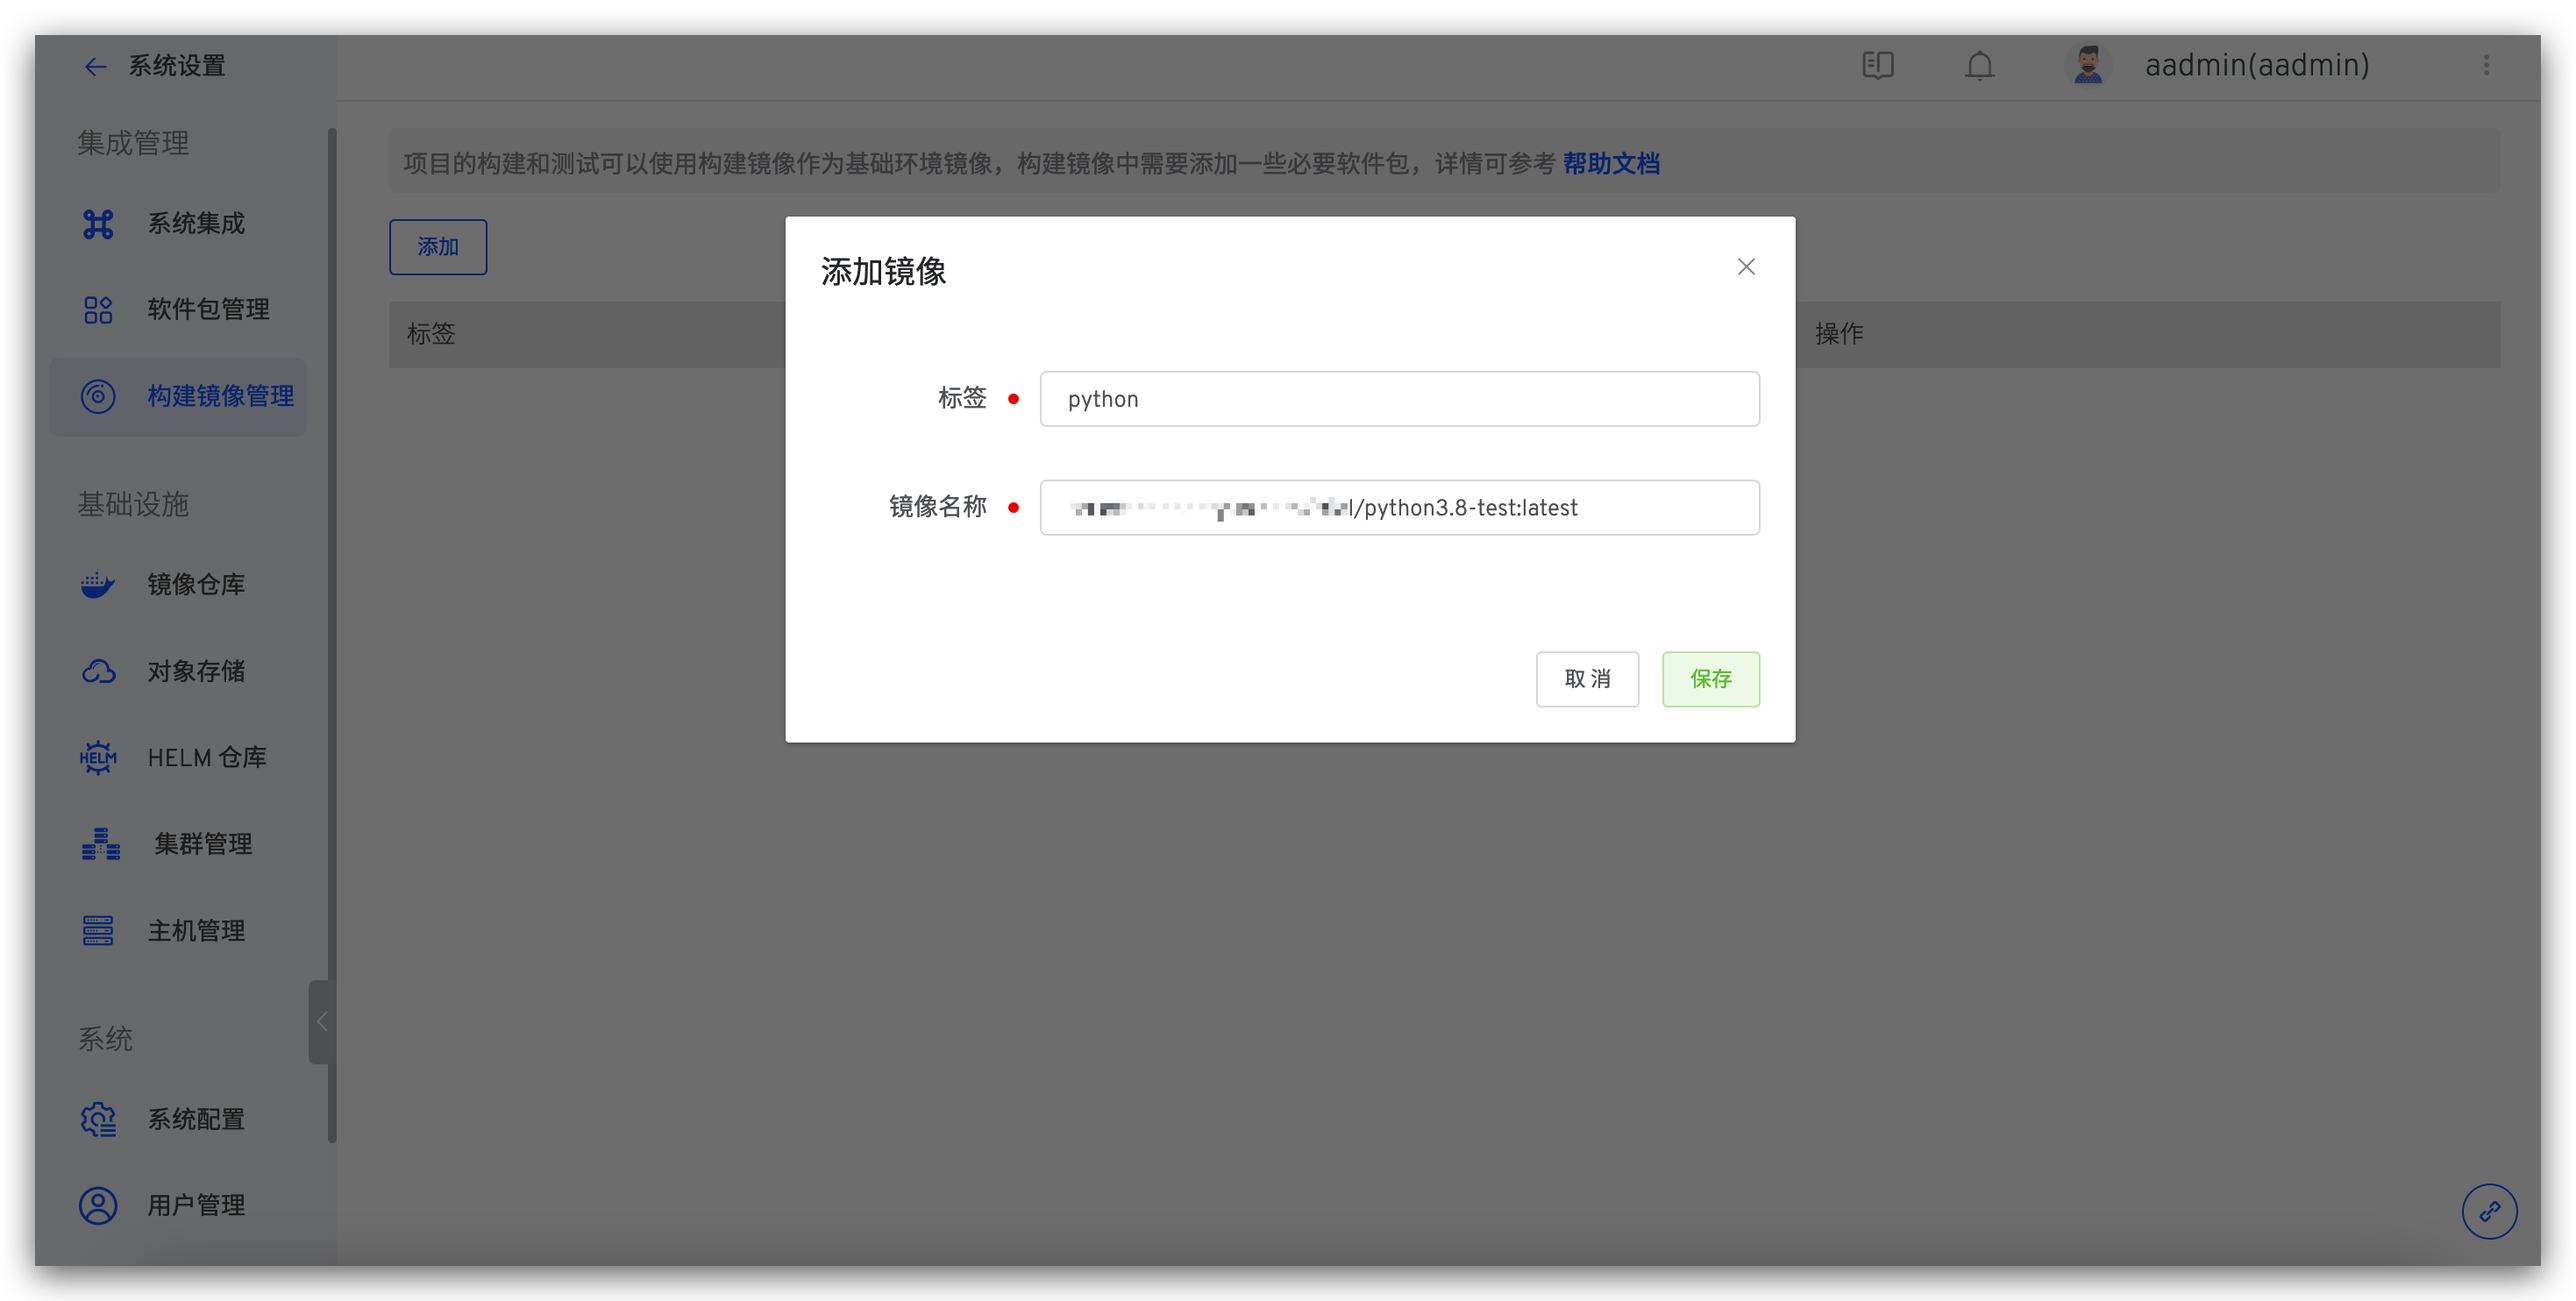
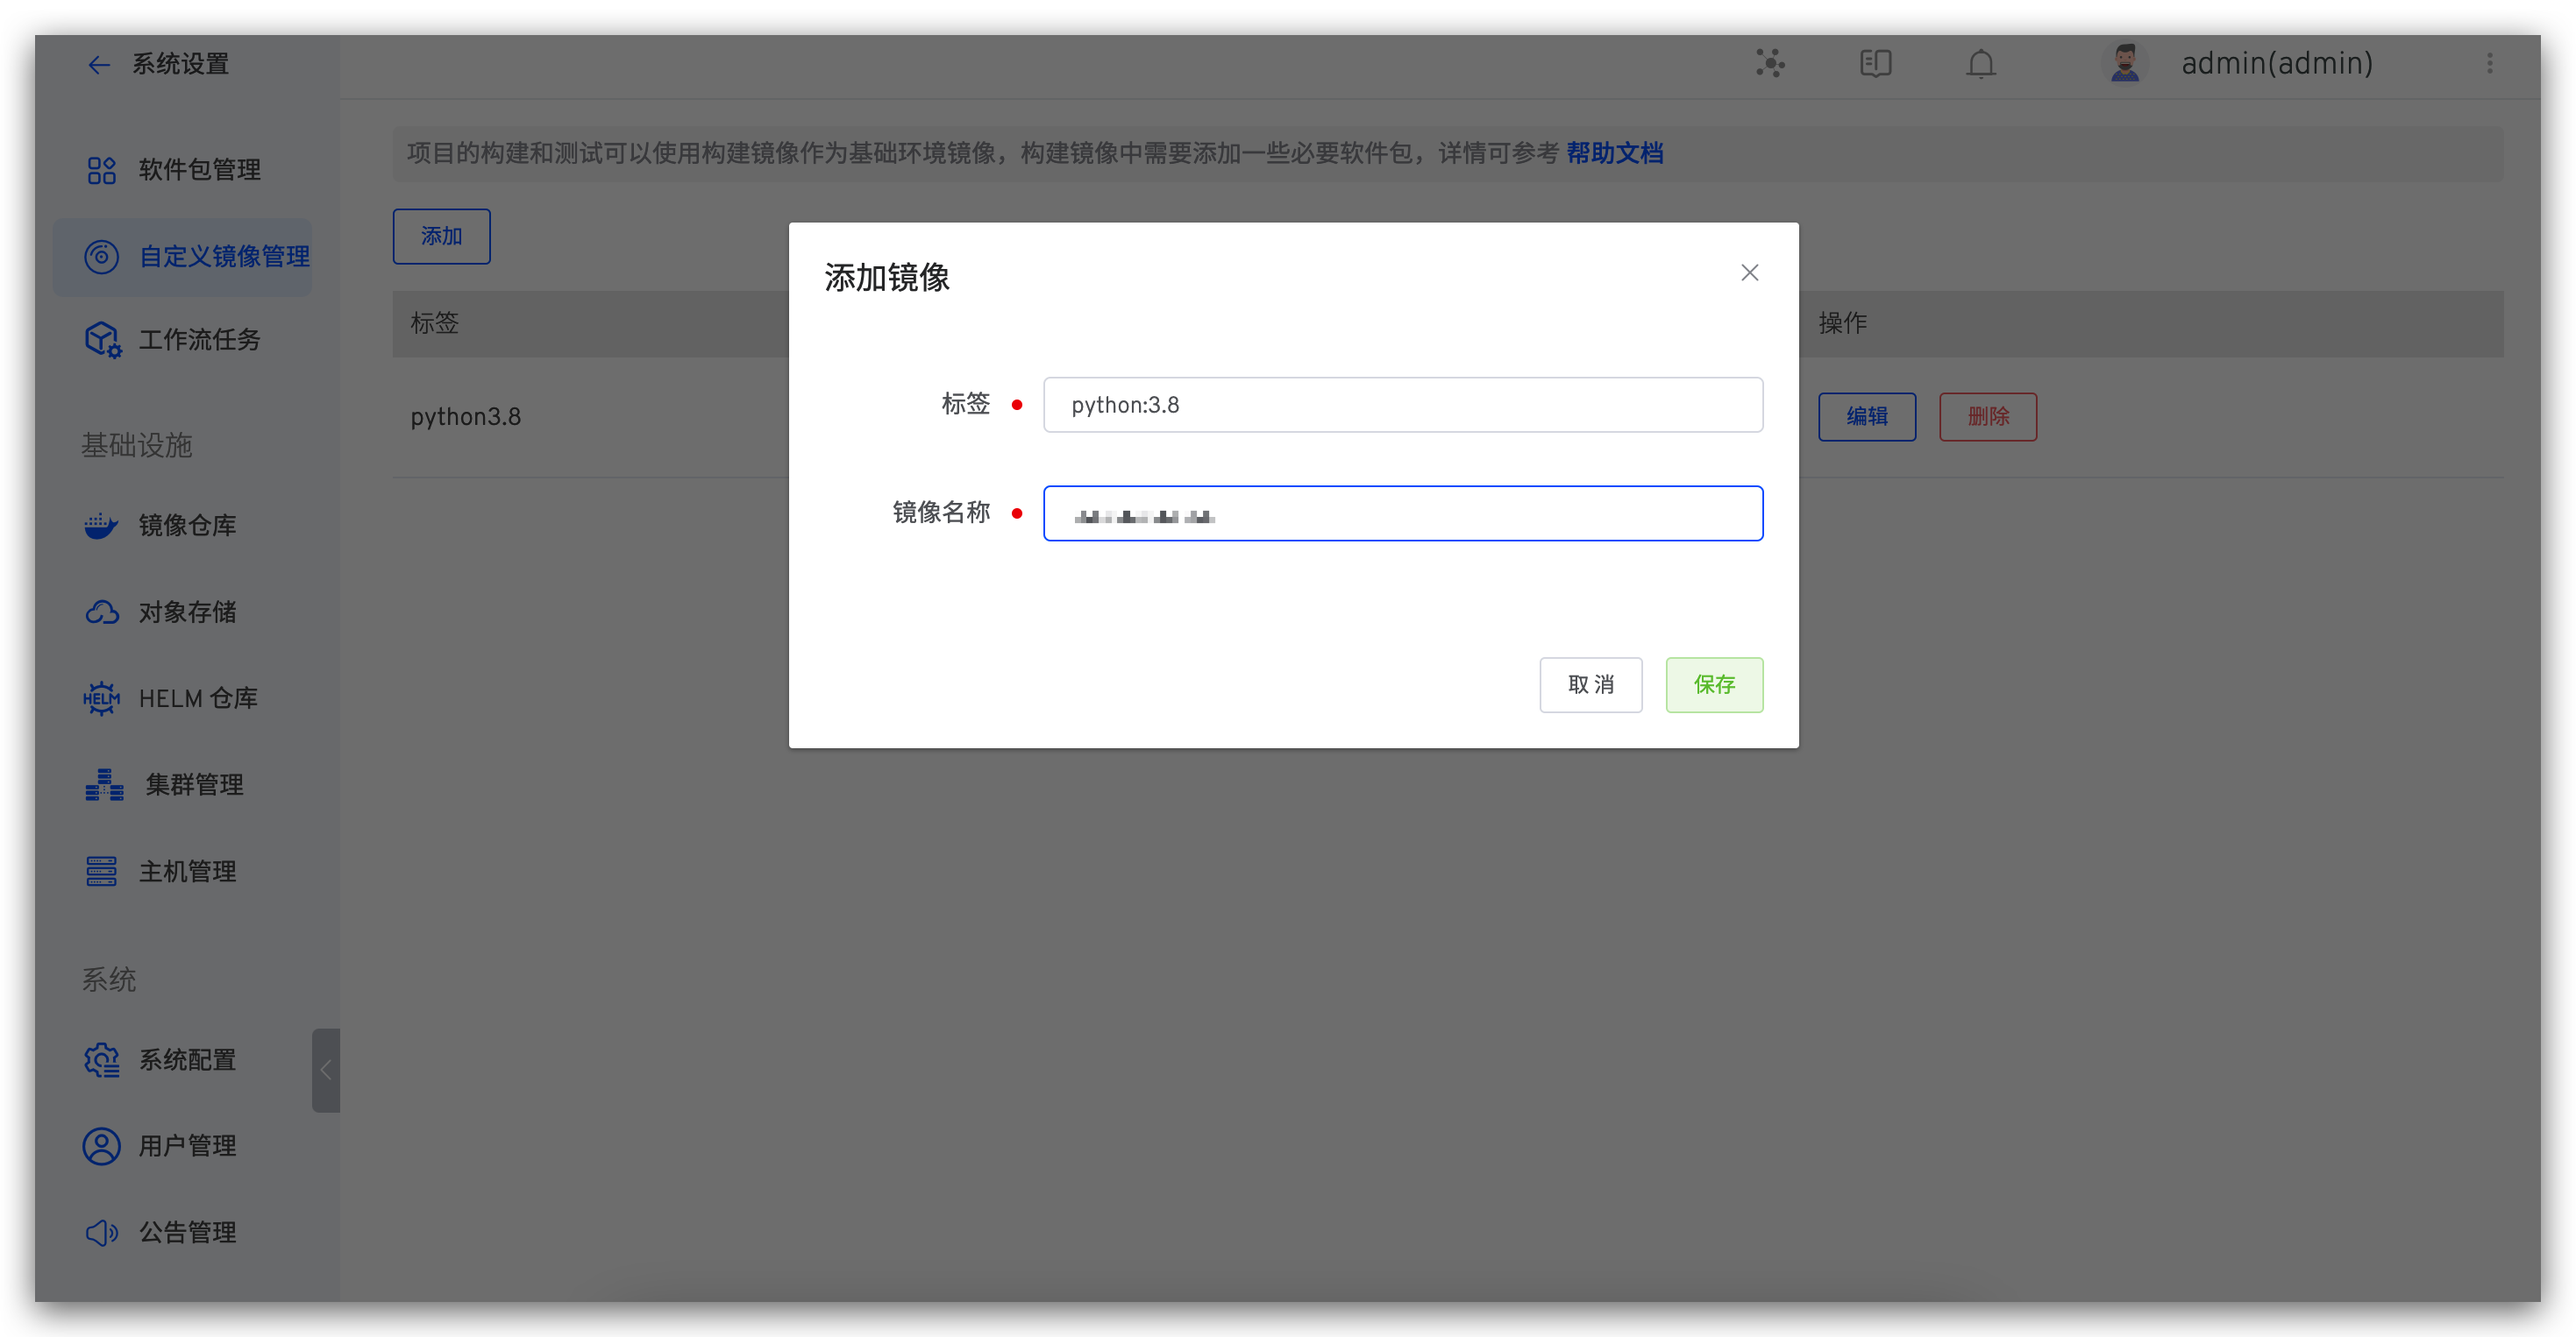
modify custom image doc

diff --git a/dev/12.系统设置/10.build_image_manage.md b/dev/12.系统设置/10.build_image_manage.md
@@ -1,13 +1,12 @@
 ---
-title: 构建镜像管理
+title: 自定义镜像管理
 date: 2021-03-16 17:50:05
 permalink: /dev/settings/custom-image/
 ---
 
-本文介绍在 Zadig 系统上如何使用自定义镜像作为构建和测试的基础环境来构建或测试项目中的服务。如果构建您的服务需要安装很多工具和依赖，那么把这些工具和依赖事先打包成一个自定义镜像，在构建服务的时候使用它，这样做可以大大提升服务的构建效率。
+本文介绍在 Zadig 系统上如何使用自定义镜像作为构建、测试和代码扫描的基础运行环境。如果构建、测试、代码扫描过程需要安装很多工具和依赖，那么把这些工具和依赖事先打包成一个自定义镜像，在执行构建、测试或者代码扫描时使用它，这样做可以大大提升任务的执行效率。
 
-## 步骤 1：生成构建镜像
-
+## 步骤 1：生成自定义镜像
 
 - 编写 Dockerfile，根据实际需求，添加 docker 指令。
 
@@ -73,20 +72,20 @@ docker build -t name:tag -f Dockerfile .
 docker push name:tag
 ```
 
-## 步骤 2：创建构建镜像
+## 步骤 2：创建自定义镜像
 
-点击 `系统设置` -> `构建镜像管理` -> `添加`，如下图所示：
+点击 `系统设置` ->`自定义镜像管理` -> `添加`，如下图所示：
 
-![添加构建镜像](./_images/image_create.png)
+![添加自定义镜像](./_images/image_create.png)
 
 参数说明：
 - `标签`：请填写一个可用于辨认镜像的名称
 - `镜像名称`：请填写之前上传到镜像仓库的镜像名称，需要填写完整的镜像名称，如 ccr.ccs.tencentyun.com/namespace/imageName:tag
 
-## 步骤 3：使用构建镜像
+## 步骤 3：使用自定义镜像
 
-自定义镜像可以在构建和测试模块中使用，下面以构建模块为例。
+自定义镜像可以在构建、测试和代码扫描模块中使用，下面以构建模块为例。
 
-进入项目下的构建 -> 点击添加，即可在 `操作系统` 选项中使用构建镜像，在执行构建任务时，即可使用您的自定义镜像作为操作系统
+进入项目下的构建 -> 点击添加，即可在 `操作系统` 选项中使用自定义镜像，在执行构建任务时，即可使用您的自定义镜像作为操作系统
 
-![使用构建镜像](./_images/image_build.png)
+![使用自定义镜像](./_images/image_build.png)
